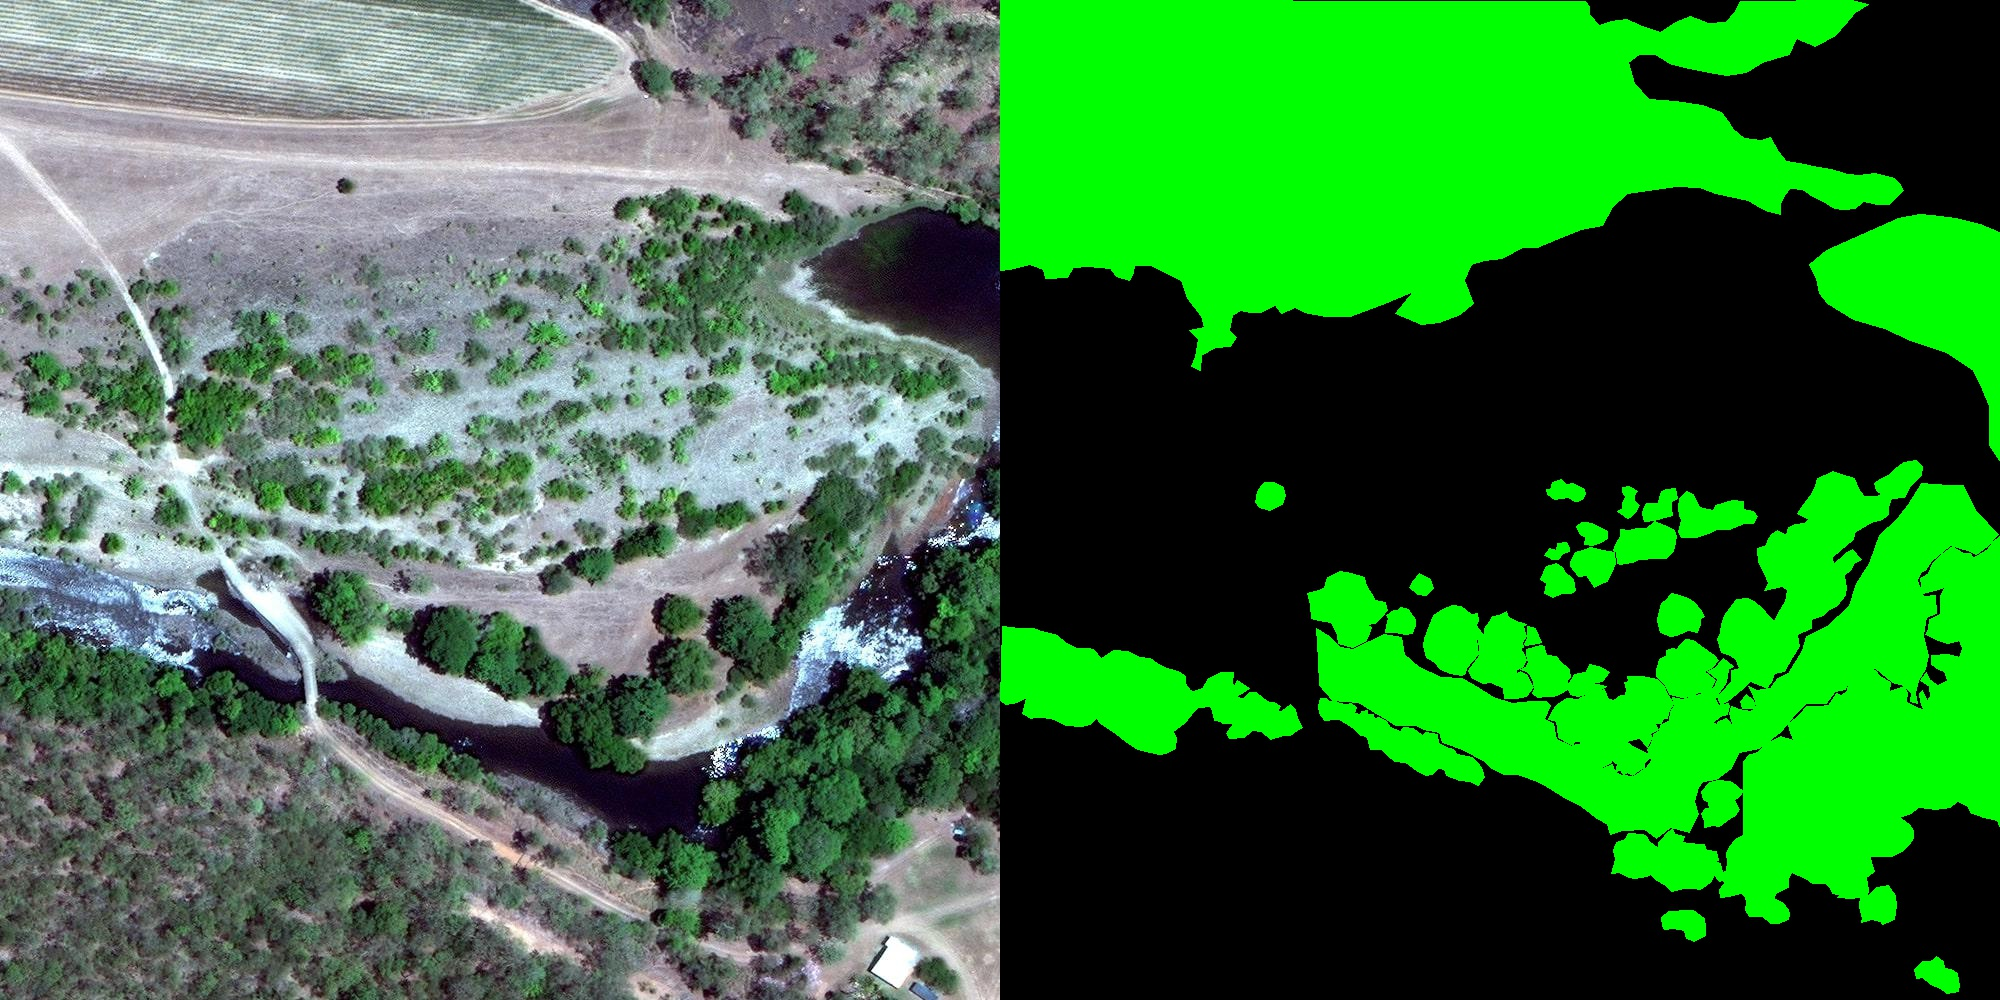
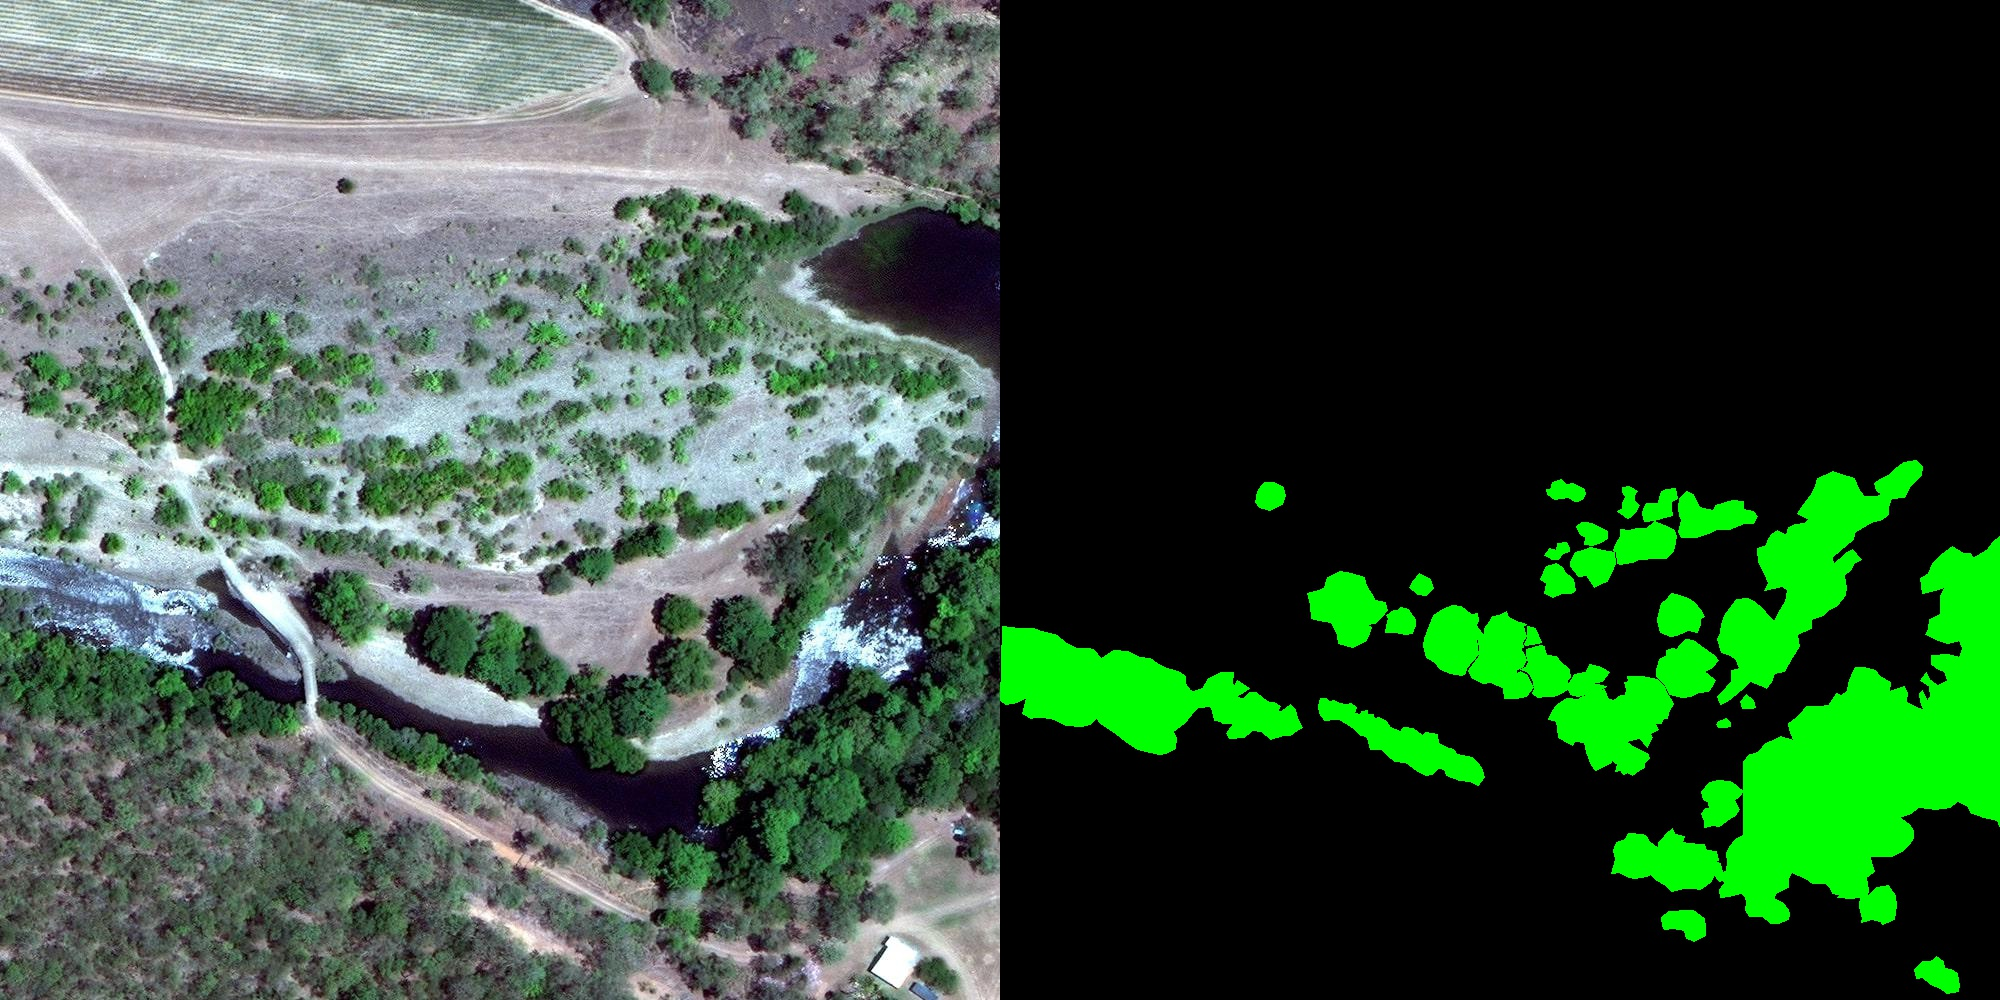
Fix bug to just draw Trees and ingnore Not Trees nodes

Changed region(s): [[0.496, 0.0, 1.0, 0.465], [0.651, 0.465, 1.0, 0.837]]

diff --git a/GANs/tools/dataset-builder.py b/GANs/tools/dataset-builder.py
@@ -1,4 +1,4 @@
-import xml.etree.ElementTree as ET
+from lxml import etree
 import numpy as np
 import cv2
 import re
@@ -70,7 +70,8 @@ def createStack(orig, labels):
     """
     height, width, channels = orig.shape
     bimg = np.zeros((height,width,channels), np.uint8)
-    polyons = labels.findall("./object//polygon")
+    polyons = labels.xpath("./object[re:match(name,'^Trees\s*\d+')]/polygon",
+                           namespaces={"re": "http://exslt.org/regular-expressions"})
     for nodes in polyons:
         bimg = addPolygonShape(bimg, getPoints(list(nodes)))
     return np.hstack([orig,bimg])
@@ -81,7 +82,7 @@ if __name__ == '__main__':
     val_path = "../datasets/val"
     (_, _, filenames) = next(os.walk(labels_path))
     names = [os.path.splitext(f)[0] for f in list(filter(lambda x: x.endswith('xml'), filenames))]
-    imgs = [(n, createStack(cv2.imread(f"{labels_path}/{n}.jpeg"), ET.parse(f"{labels_path}/{n}.xml").getroot())) for n in names]
+    imgs = [(n, createStack(cv2.imread(f"{labels_path}/{n}.jpeg"), etree.parse(f"{labels_path}/{n}.xml").getroot())) for n in names]
     # Save the stacked image for training
     for n,i in imgs[:round(len(imgs)*TRAIN_SIZE)]:
         cv2.imwrite(f"{train_path}/{n}.jpg", i)
